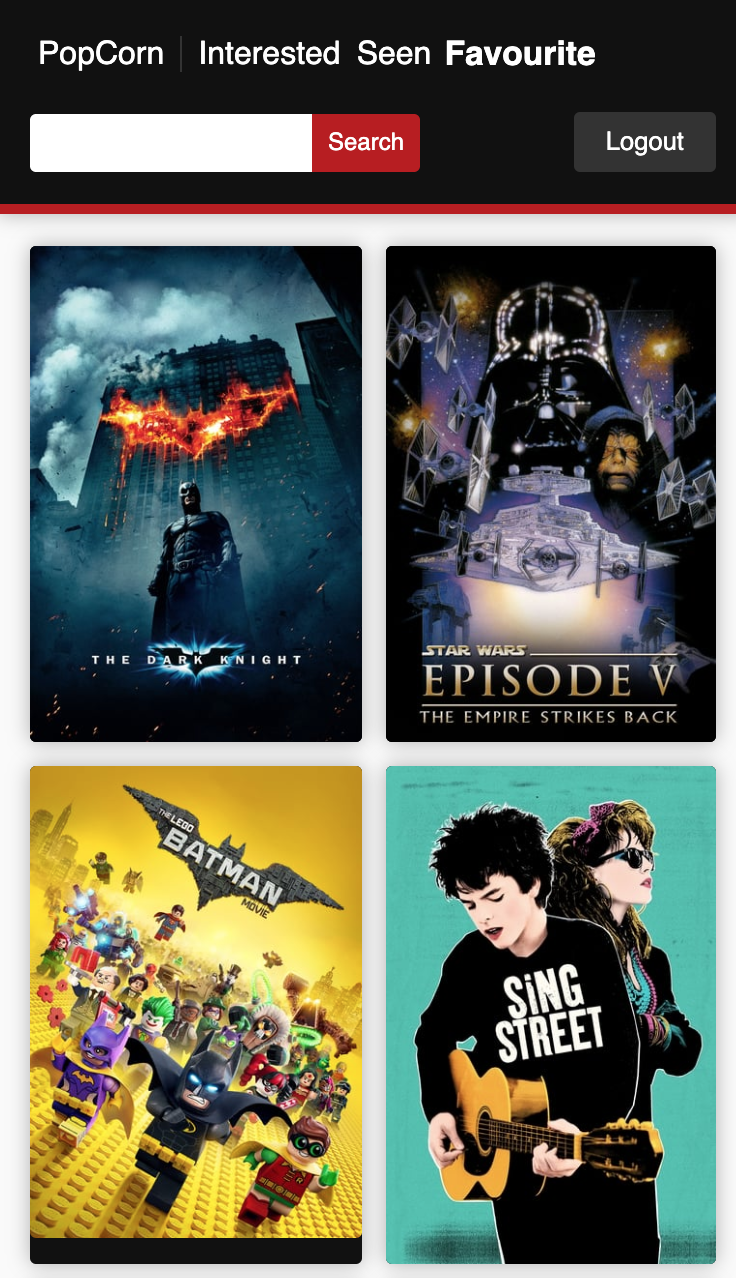
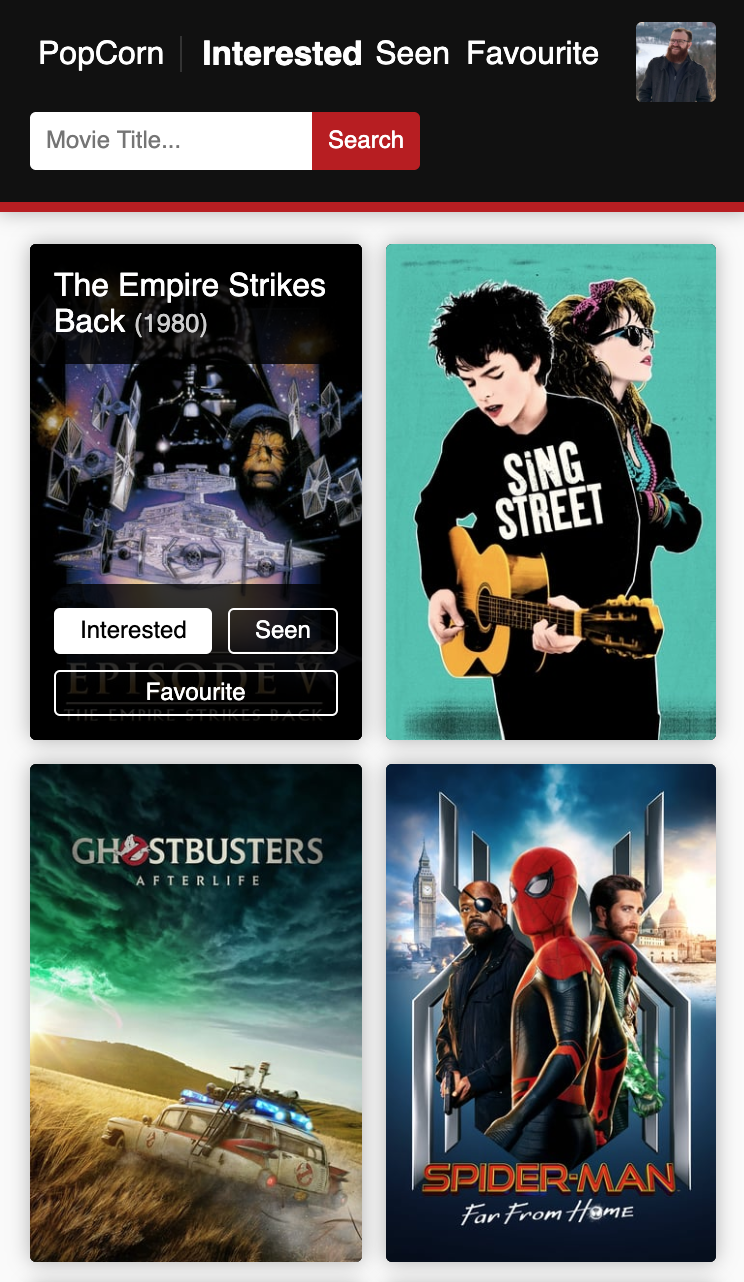
add popcorn to projects section

diff --git a/index.html b/index.html
@@ -81,8 +81,23 @@
           <h3>Orchard</h3>
           <p>This wellness app lets you list daily goals you'd like to accomplish and mark them as 'done' as you complete them.</p>
           <p>It tracks how many days you've completed each goal, resetting their statuses each day.</p>
-          <p>It is built with React, uses Local Storage to save tasks to your browser, and allows for drag and drop reordering of your goals.</p>
+          <p>It is built with React, uses Local Storage to save goals to your browser, and uses the <a href="https://github.com/bevacqua/dragula">Dragula library</a> for drag and drop reordering.</p>
           <p>Live Demo: <a href="http://orchard-react.netlify.com">orchard-react.netlify.com</a></p>
+        </article>
+      </div>
+      <hr />
+      <div class="content">
+        <div class="project-screenshot__container">
+          <div class="project-screenshot">
+            <img src="./images/popcorn-screenshot.png" />
+          </div>
+        </div>
+        <article class="description">
+          <h3>PopCorn</h3>
+          <p>This entertainment app lets you track your movies by marking them as 'interested', 'seen', or 'favourite'.</p>
+          <p>It searches <a href="https://www.themoviedb.org/">The Movie Database</a> to showcase the title, year and poster of movies you may like to track.</p>
+          <p>It is built with React, and uses Session Storage to cache movie data. It also uses Firebase for Google login capabilities and Netlify functions to hide my API credentials.</p>
+          <p>Live Demo: <a href="http://popcorn-movies.netlify.com">popcorn-movies.netlify.com</a></p>
         </article>
       </div>
     </section>
